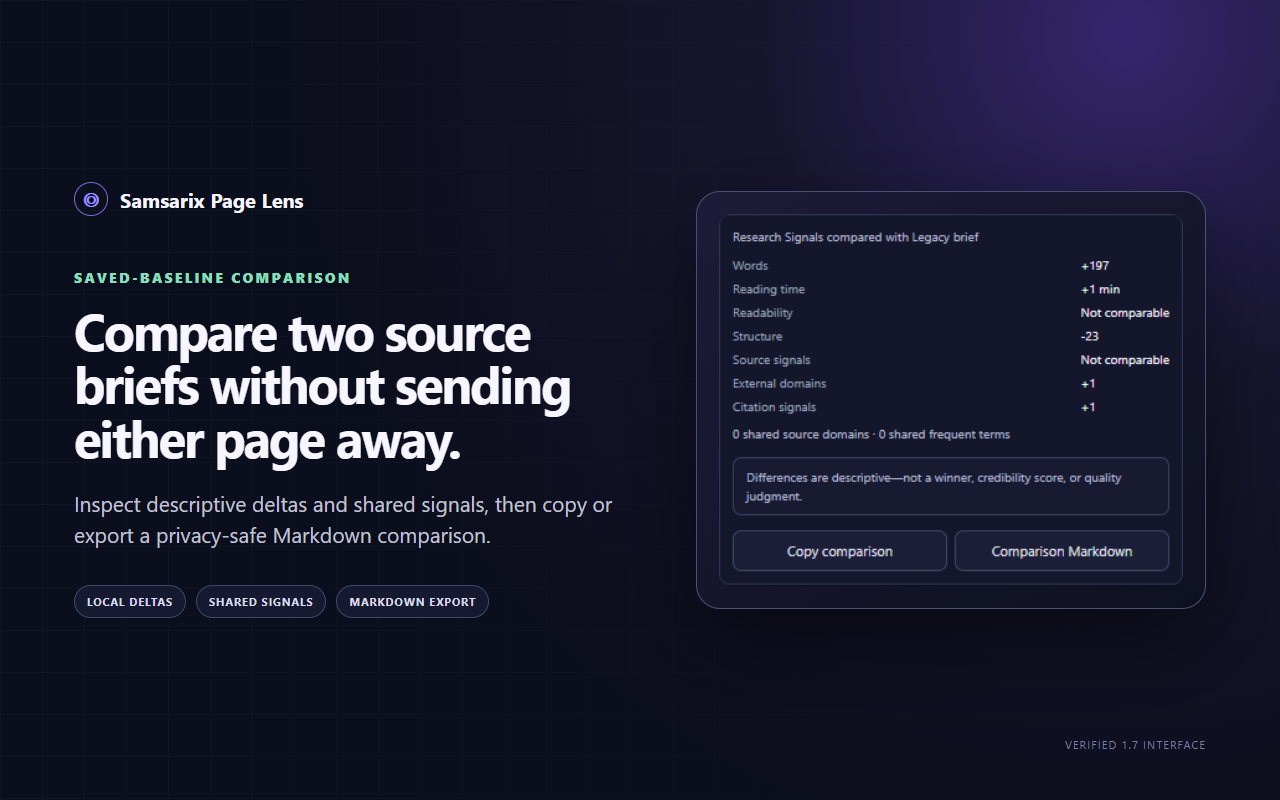
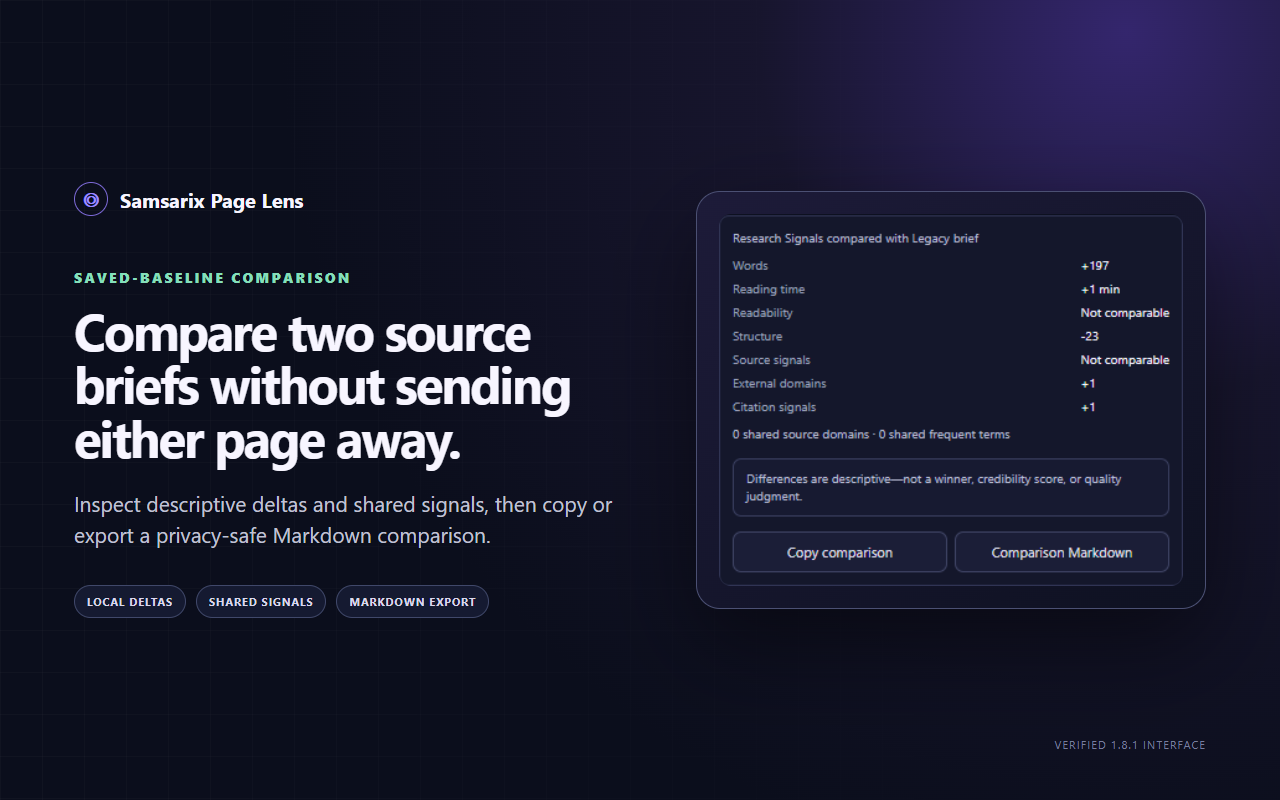
chore: prepare verified 1.8.1 queue lifecycle pilot

diff --git a/extension/popup.html b/extension/popup.html
@@ -49,7 +49,7 @@
         </section>
         <section id="history-section" class="history-section" aria-labelledby="history-heading"><div class="history-heading-row"><h2 id="history-heading">Research queue</h2><label class="sr-only" for="history-filter">Filter saved briefs</label><select id="history-filter"><option value="all">All</option><option value="read-deeper">Read deeper</option><option value="reference">References</option><option value="skip">Skipped</option><option value="unreviewed">Not reviewed</option></select></div><div id="history-list" class="history-list"></div><p id="history-empty" class="empty-note">No saved briefs yet. Import a Page Lens backup to restore a queue.</p><div class="queue-actions"><button id="queue-markdown-btn" class="action-btn" type="button">Queue Markdown</button><button id="queue-json-btn" class="action-btn" type="button">Backup JSON</button><button id="queue-import-btn" class="action-btn" type="button">Import backup</button><input id="queue-import-file" class="sr-only" type="file" accept="application/json,.json"></div><p id="queue-status" class="queue-status hidden" role="status"></p></section>
       </section>
-      <footer class="footer"><span id="history-count">No saved briefs</span><span class="footer-links"><a id="pilot-feedback" href="mailto:support@samsarix.com?subject=Page%20Lens%201.7%20pilot%20feedback&amp;body=Please%20do%20not%20include%20private%20page%20URLs%20or%20confidential%20content.%0A%0ARole%20or%20use%20case%3A%0ATask%20you%20tried%3A%0ADid%20Page%20Lens%20change%20your%20reading%20decision%3F%0AWhat%20was%20unclear%20or%20missing%3F%0AWould%20you%20use%20it%20again%3F%20Why%3F">Pilot feedback</a><a href="mailto:support@samsarix.com">Support</a><button id="clear-history-btn" class="link-btn hidden" type="button">Clear</button></span></footer>
+      <footer class="footer"><span id="history-count">No saved briefs</span><span class="footer-links"><a id="pilot-feedback" href="mailto:support@samsarix.com?subject=Page%20Lens%20pilot%20feedback&amp;body=Please%20do%20not%20include%20private%20page%20URLs%20or%20confidential%20content.%0A%0ARole%20or%20use%20case%3A%0ATask%20you%20tried%3A%0ADid%20Page%20Lens%20change%20your%20reading%20decision%3F%0AWhat%20was%20unclear%20or%20missing%3F%0AWould%20you%20use%20it%20again%3F%20Why%3F">Pilot feedback</a><a href="mailto:support@samsarix.com">Support</a><button id="clear-history-btn" class="link-btn hidden" type="button">Clear</button></span></footer>
     </main>
     <script src="analyzer.js"></script><script src="extractor.js"></script><script src="popup.js"></script>
   </body>

diff --git a/test/manifest.test.js b/test/manifest.test.js
@@ -13,6 +13,6 @@ test('ships a minimal Manifest V3 permission set', () => {
 });
 test('ships Samsarix release metadata', () => {
   assert.equal(manifest.name, 'Samsarix Page Lens');
-  assert.equal(manifest.version, '1.8.0');
+  assert.equal(manifest.version, '1.8.1');
   assert.equal(manifest.homepage_url, 'https://samsarix.com');
 });

diff --git a/README.md b/README.md
@@ -12,22 +12,23 @@ One explicit click produces:
 - an on-device comparison between the current brief and any saved baseline, with descriptive deltas and shared signals.
 - a private research queue with review decisions, bounded notes, and decision filters.
 - versioned JSON queue backup/import and whole-queue Markdown handoff without cloud sync.
+- confirmed removal of one saved brief without clearing the rest of the queue.
 
 Source signals describe what the page exposes. They do **not** establish factuality, credibility, authority, or quality.
 
-Status: **1.8 security-hardened bounded-pilot candidate for unpacked-extension evaluation.** Chrome Web Store publication and real-participant validation are not yet complete.
+Status: **1.8.1 bounded-pilot candidate for unpacked-extension evaluation.** Chrome Web Store publication and real-participant validation are not yet complete.
 
 ## Join the bounded pilot
 
-Page Lens needs 8–12 consenting participants who make real source-reading decisions. Researchers, analysts, writers, journalists, educators, students, and independent knowledge workers are all useful perspectives. The pilot uses the unsigned [v1.8.0-pilot.1 prerelease](https://github.com/Deathcharge/samsarix-page-lens/releases/tag/v1.8.0-pilot.1) and takes place over one initial session plus one return use 2–7 days later.
+Page Lens needs 8–12 consenting participants who make real source-reading decisions. Researchers, analysts, writers, journalists, educators, students, and independent knowledge workers are all useful perspectives. The pilot uses the unsigned [v1.8.1-pilot.1 prerelease](https://github.com/Deathcharge/samsarix-page-lens/releases/tag/v1.8.1-pilot.1) and takes place over one initial session plus one return use 2–7 days later.
 
-Read the [pilot protocol](docs/PILOT.md), then [email support@samsarix.com to volunteer](mailto:support@samsarix.com?subject=Page%20Lens%201.8%20pilot%20volunteer&body=I%20would%20like%20to%20volunteer%20for%20the%20Page%20Lens%201.8%20bounded%20pilot.%0A%0ACohort%20%28research%2Fanalysis%2C%20writing%2Fjournalism%2C%20education%2Fstudent%2C%20or%20independent%20knowledge%20work%29%3A%0ABrowser%20and%20operating%20system%3A%0ARelevant%20source-triage%20use%20case%20%28do%20not%20include%20private%20URLs%20or%20confidential%20content%29%3A). Do not send page URLs, browsing history, source contents, screenshots, queue exports, or private notes. Participation is voluntary; positive feedback is neither expected nor rewarded.
+Read the [pilot protocol](docs/PILOT.md), then [email support@samsarix.com to volunteer](mailto:support@samsarix.com?subject=Page%20Lens%201.8.1%20pilot%20volunteer&body=I%20would%20like%20to%20volunteer%20for%20the%20Page%20Lens%201.8.1%20bounded%20pilot.%0A%0ACohort%20%28research%2Fanalysis%2C%20writing%2Fjournalism%2C%20education%2Fstudent%2C%20or%20independent%20knowledge%20work%29%3A%0ABrowser%20and%20operating%20system%3A%0ARelevant%20source-triage%20use%20case%20%28do%20not%20include%20private%20URLs%20or%20confidential%20content%29%3A). Do not send page URLs, browsing history, source contents, screenshots, queue exports, or private notes. Participation is voluntary; positive feedback is neither expected nor rewarded.
 
 ## Install and try it
 
 Prerequisites: Chrome or Chromium with Manifest V3 support. Node.js 24+ is needed only for development and release verification.
 
-1. For ordinary development, clone this repository. Pilot participants instead download and extract `samsarix-page-lens-1.8.0.zip` from the pinned prerelease and verify the SHA-256 printed in that release and in [docs/PILOT.md](docs/PILOT.md).
+1. For ordinary development, clone this repository. Pilot participants instead download and extract `samsarix-page-lens-1.8.1.zip` from the pinned prerelease and verify the SHA-256 printed in that release and in [docs/PILOT.md](docs/PILOT.md).
 2. Open `chrome://extensions`.
 3. Enable **Developer mode**.
 4. Choose **Load unpacked** and select `extension` for a source checkout, or the extracted pilot ZIP directory for the pinned prerelease.
@@ -64,6 +65,8 @@ Comparisons are calculated on demand from two briefs already in the popup and ar
 
 Queue backup and import are explicit local actions, not synchronization. JSON imports are limited to 1 MB and 100 input records, validated before storage, normalized through the same privacy migration as existing history, deduplicated, and capped at 25 stored briefs. A structurally invalid backup does not modify the current queue.
 
+To remove a single saved source, select **Remove** beside its queue entry and confirm. The confirmation covers the saved brief, decision, note, and any unsaved edits to that displayed brief. Other records remain intact. Removal does not delete downloaded backups; use **Import backup** to restore from one if needed. **Clear** removes the whole saved queue after confirmation. The **Displayed brief** title and URL identify the record currently being read; **Create page brief** still analyzes the active tab.
+
 ## Development and verification
 
 ```bash
@@ -72,7 +75,7 @@ npx playwright install chromium
 npm run check
 ```
 
-The complete gate runs manifest/privacy/workflow policy checks, thirty deterministic unit tests, a clean artifact build, and an installed-extension Chromium test covering extraction, sanitization, popup rendering, local save, review decisions and filtering, queue backup/import, history reopening, saved-baseline comparison, export, and declared non-English behavior.
+The complete gate runs manifest/privacy/workflow policy checks, thirty-two deterministic unit tests, a clean artifact build, and an installed-extension Chromium test covering extraction, sanitization, popup rendering, local save, review decisions and filtering, queue backup/import, history reopening, saved-baseline comparison, export, and declared non-English behavior.
 
 Individual commands:
 
@@ -83,7 +86,7 @@ npm run build
 npm run test:browser
 ```
 
-`npm run build` creates the unpacked `dist/samsarix-page-lens` directory and deterministic `dist/samsarix-page-lens-1.8.0.zip`, containing only the runtime extension, icons, license, notice, and build metadata. The build rejects symbolic links and other non-regular package inputs. Playwright, jsdom, and fflate are development-only dependencies and are not shipped.
+`npm run build` creates the unpacked `dist/samsarix-page-lens` directory and deterministic `dist/samsarix-page-lens-1.8.1.zip`, containing only the runtime extension, icons, license, notice, and build metadata. The build rejects symbolic links and other non-regular package inputs. Playwright, jsdom, and fflate are development-only dependencies and are not shipped.
 
 ### Architecture
 

diff --git a/docs/STORE_LISTING.md b/docs/STORE_LISTING.md
@@ -29,7 +29,7 @@ No host permissions are requested.
 ## Owner-provided assets and actions
 
 - [ ] Confirm Samsarix LLC owns or has permission to use the product name and supplied icon artwork.
-- [x] Generate and visually review three 1280×800 screenshots in `store-assets/` from the packaged 1.7 browser journey.
+- [x] Generate and visually review three 1280×800 screenshots in `store-assets/` from the packaged 1.8.1 browser journey.
 - [x] Generate and visually review the required 440×280 small promotional tile in `store-assets/`.
 - [x] Prepare the standalone disclosure at `site/privacy/index.html` and a SHA-pinned, owner-triggered GitHub Pages workflow.
 - [x] Publish and byte-verify the disclosure at `https://deathcharge.github.io/samsarix-page-lens/` with HTTPS enforcement; use this URL in the listing.
@@ -43,7 +43,7 @@ No host permissions are requested.
 
 The current runtime performs no network requests and includes no analytics or advertising SDK. Page content is processed ephemerally on-device. User-requested schema-v2 briefs, including optional review decisions and notes capped at 500 characters, are stored locally, capped at 25, and removable. The static pilot-feedback link opens the user's email client with questions and a warning not to include private URLs or confidential content; Page Lens does not send the message itself. Store declarations must be revalidated against the exact submission artifact and current Chrome Web Store questionnaire.
 
-Chrome's user-data policy treats website content, browsing activity, and user-provided content as handled data even when processing and storage never leave the device. Use these conservative dashboard answers for the reviewed 1.7 artifact:
+Chrome's user-data policy treats website content, browsing activity, and user-provided content as handled data even when processing and storage never leave the device. Use these conservative dashboard answers for the 1.8.1 candidate (confirm against the live questionnaire):
 
 - **Single purpose:** Give the user a transparent, on-device reading and structure brief for the active webpage.
 - **Remote code:** No, this extension does not use remote code.
@@ -59,11 +59,11 @@ These answers deliberately disclose local handling rather than interpreting “c
 No account, credentials, payment, server, or special setup is required.
 
 1. Open any ordinary public HTTP(S) article and select the Page Lens toolbar icon.
-2. Select **Analyze this page**. Confirm that the brief shows reading effort, structure, visible source signals, and the sanitized page URL.
-3. Select **Save locally**, choose a review decision, and enter a short note. Reopen the popup and confirm the record remains in the private queue.
-4. Use **Back up queue** and **Queue Markdown**. Import the downloaded JSON only after accepting the replacement/cap warning.
+2. Select **Create page brief**. Confirm that the brief shows reading effort, structure, visible source signals, and the sanitized page URL under **Displayed brief**.
+3. Choose a review decision, enter a short note, then select **Save locally**. Reopen the popup and confirm the record and note remain in the private queue.
+4. Use **Backup JSON** and **Queue Markdown**. Select **Remove** beside one saved record, cancel once to check that nothing changes, then confirm removal. Import the downloaded JSON only after accepting the replacement/cap warning and verify that it restores the removed record.
 5. Analyze a second public article, select the saved source as a baseline, and confirm the local comparison and Markdown export.
-6. Remove the saved records and confirm the empty state.
+6. Remove the last saved record and confirm the empty state and that **Import backup** remains available. **Clear** also removes the full queue after confirmation.
 
 Expected restrictions: Chrome blocks script injection on browser-internal pages and the Chrome Web Store; the popup explains that limitation. Pages without an explicit English language declaration do not receive an English readability score. No test credentials are necessary.
 

diff --git a/docs/PRODUCTIZATION.md b/docs/PRODUCTIZATION.md
@@ -265,3 +265,26 @@ Local release evidence for 1.8:
 - Post-merge `main` CI run `31456588012` passed the complete gate, including the live disclosure match. Privacy deployment run `31456597359` published the same commit and passed its post-deployment byte verification.
[2 lines of base64/hex data omitted]
+
+## 1.8.1 queue lifecycle correction — August 31, 2026
+
+Current-state audit found no new participant evidence in issue #16 and no downloads of the pinned 1.8.0 pilot asset. This does not prove the support inbox is empty; authenticated email/store access is unavailable in this execution environment. The goal's real-use validation gate remains unproven.
+
+Locally actionable gaps:
+
+- **P1:** The pilot's recovery task instructed users to remove one saved record, but the UI only supported clearing all records. Added a separately labeled **Remove** button for each queue entry, explicit confirmation (including loss of unsaved edits to that brief), cancellation, write-failure feedback, keyboard focus recovery, and an empty-queue state that preserves import access.
+- **P1:** Reopening a saved record showed metrics without its own source heading. Added a **Displayed brief** title and sanitized URL while preserving the active-tab analysis target.
+- **P2:** Feedback subjects and screenshot labels still named 1.7; they now derive the actual version from the manifest. Corrected reviewer button names and the note-before-save ordering.
+
+The queue uses the same normalized identity for saving, backup/import, and removal. Removal changes only local extension storage, not downloaded backups. It invalidates a displayed deleted brief and its comparison, while unrelated displayed notes remain untouched. No permissions, runtime network traffic, storage schema, dependencies, or licensing changed.
+
+Verification from a fresh `npm ci`:
+
+- `npm test`: 32/32 tests passed (baseline was 30/30).
+- `npm run check`: policy, syntax, unit, build, and installed-extension Chromium gates passed.
+- The Chromium journey now cancels removal, simulates a failing storage write, deletes by keyboard, restores the actual downloaded backup, removes from a filtered list, preserves another record's unsaved note, and deletes the final record.
+- `npm run build:store-assets`: regenerated all three screenshot compositions; visually reviewed the removal controls and displayed-brief identity.
+- `npm run release:verify`: exact packaged bytes and live privacy disclosure matched. `npm audit --audit-level=low`: 0 known vulnerabilities.
[1 lines of base64/hex data omitted]
+
+The browser harness loads the real unpacked extension and uses actual local storage, dialogs, file import, and downloads, but injects deterministic page snapshots into the popup. It does not prove the manual toolbar `activeTab` grant or Chrome Web Store installation path. Those checks, real participant sessions, monitored support, and owner identity/trademark confirmations remain external release gates. Feature expansion should follow observed pilot needs; it is not a substitute for those gates.

diff --git a/docs/PILOT.md b/docs/PILOT.md
@@ -19,7 +19,7 @@ Do not recruit only contributors, friends already familiar with the interface, o
 
 ## Safety and privacy
 
[2 lines of base64/hex data omitted]
 - Explain that the build is an unsigned pilot extension and provide removal instructions.
 - Participants choose their own ordinary public pages. Do not ask them to disclose URLs, browsing history, source text, queue exports, screenshots, or private notes.
 - Do not use pages containing medical, financial, legal, authentication, private workplace, or personally sensitive material for the pilot.
@@ -33,7 +33,7 @@ Give only the short product description from the store listing. Do not demonstra
 1. **First brief:** choose a real public page you might read, create a brief, and explain what you think each score means.
 2. **Decision:** decide whether to read deeper, keep as a reference, skip, or leave unreviewed; add a non-sensitive note and save it.
 3. **Second source:** analyze another page relevant to the same real task and compare it with the saved baseline.
-4. **Recovery:** create a queue backup and queue Markdown, remove one test record, then restore the JSON backup after reading the confirmation.
+4. **Recovery:** create a queue backup and queue Markdown, select **Remove** beside one test record and confirm, then restore the JSON backup after reading the import confirmation. Check that the other record was unchanged and the restored decision/note match the backup.
 5. **Return:** after 2–7 days, reopen Page Lens without assistance and use the queue for one genuine source decision.
 6. **Feedback:** use the in-product link or answer the same six questions verbally. Ask the participant to distinguish “page signal” from “truth/credibility judgment.”
 
@@ -64,7 +64,7 @@ Feature requests enter the roadmap only when tied to the same narrow source-tria
 
 ## Aggregate result template
 
-Copy this section into a dated `docs/pilots/YYYY-MM-DD-1.8.md` file after the pilot. Commit no raw responses.
+Copy this section into a dated `docs/pilots/YYYY-MM-DD-1.8.1.md` file after the pilot. Commit no raw responses.
 
 ```text
 Artifact version and SHA-256:

diff --git a/ROADMAP.md b/ROADMAP.md
@@ -34,6 +34,8 @@ Current disposition: productization is merged. Version 1.8 packages the private 
 
 Current hardening backlog:
 
+- [x] Complete per-record queue removal and backup restoration, and explicitly label the displayed saved source independently from the active tab.
+
 - Popup/Chrome integration, extraction, sanitization, history, and the exact built artifact are covered by committed Chromium smoke testing. Manual toolbar `activeTab` behavior and clipboard/download prompts remain release gates.
 - Store screenshots are prepared and policy-checked. The privacy disclosure is published over enforced HTTPS and verified against its repository source after deployment. Store account/signing/submission and adoption evidence remain owner-controlled.
 - [x] Use Unicode-aware word/term tokenization; calculate the English readability formula only for pages that explicitly declare English, and show an unavailable reason for non-English or undeclared language.

diff --git a/CHANGELOG.md b/CHANGELOG.md
@@ -2,6 +2,14 @@
 
 All notable user-facing and security-relevant changes are recorded here. Versions before the first Chrome Web Store publication are bounded-pilot builds, not supported store releases.
 
+## 1.8.1 — 2026-08-31
+
+- Complete the pilot's single-record removal task with a per-brief **Remove** control, confirmation, cancellation, recoverable write-failure state, and backup restoration.
+- Identify the displayed brief independently from the active tab so reopened records are not misattributed.
+- Preserve unrelated records and notes when removing a brief, including records without a retained URL.
+- Derive pilot-feedback version and store screenshot labels from the installed manifest instead of stale 1.7 text.
+- Correct reviewer instructions to match the real control names and save order.
+
 ## 1.8.0 — 2026-08-10
 
 - Encode page-controlled URL delimiters in Markdown brief and comparison exports.

diff --git a/store-assets/README.md b/store-assets/README.md
@@ -10,4 +10,4 @@ npx playwright install chromium
 npm run build:store-assets
 ```
 
-The generator uses no remote fonts or imagery. The embedded product UI comes from the packaged 1.7 browser journey; surrounding copy is maintained in `scripts/store-assets.cjs`. Before submission, the store owner must review every image against the exact uploaded ZIP and current Chrome Web Store image/content policies.
+The generator uses no remote fonts or imagery. The embedded product UI comes from the packaged 1.8.1 browser journey; surrounding copy is maintained in `scripts/store-assets.cjs`. Before submission, the store owner must review every image against the exact uploaded ZIP and current Chrome Web Store image/content policies.
